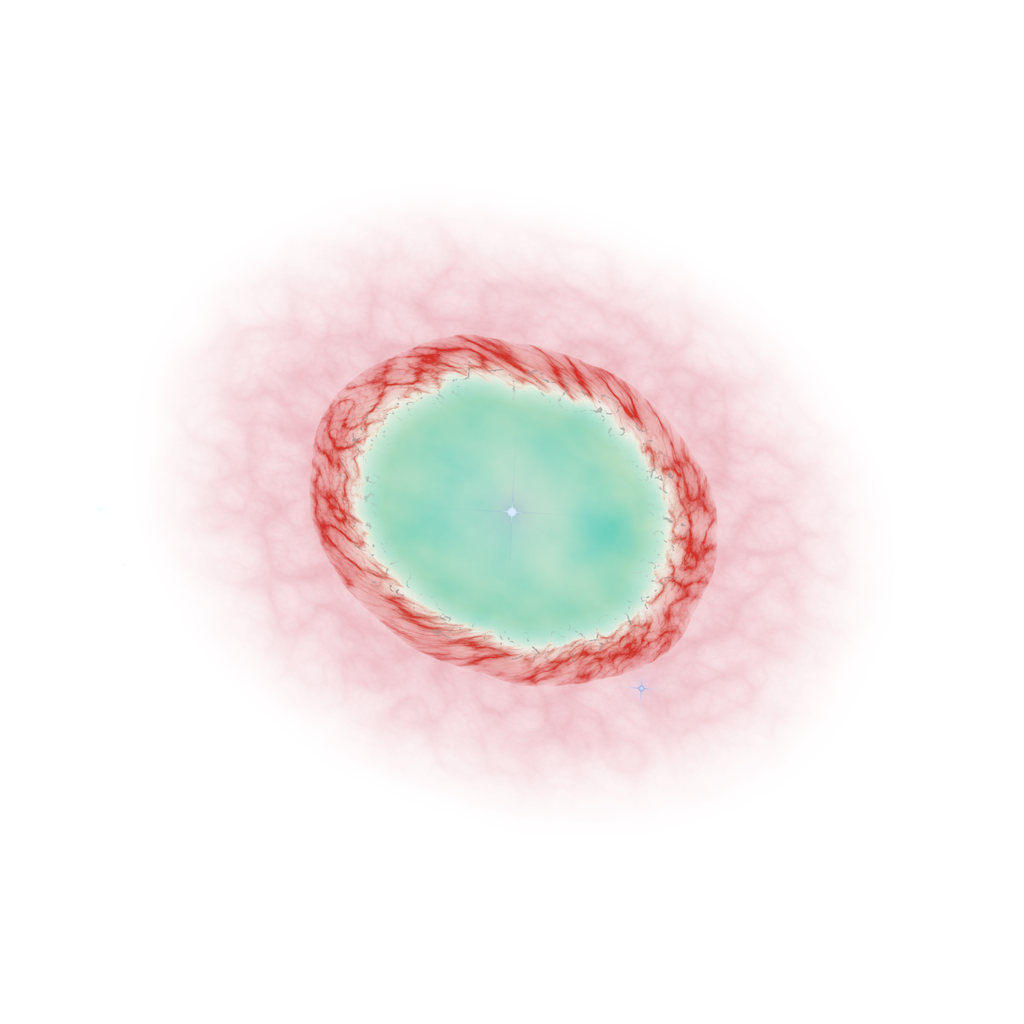
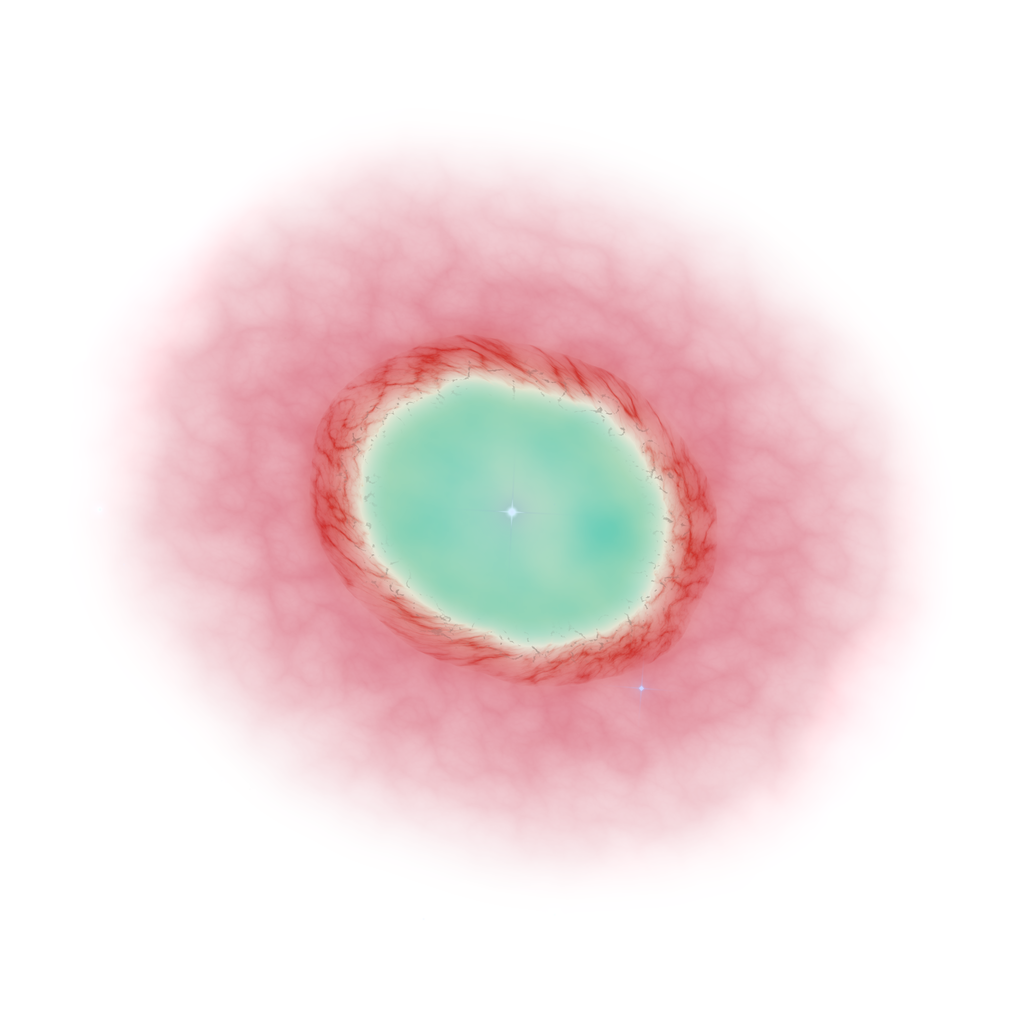
feat(cockpit-3d): favour the hazy arrivals, and a hazier ring nebula
- The emission and reflection nebulae and the spiral galaxy come up twice as often as
  the rest (WEIGHT in sky_arrivals.py, an item each time).
- The ring nebula's shell light is spread wide and its halo is broader, so its rim
  melts into the sky instead of drawing a hard line; only ring_nebula.png is re-rendered.
- jstream-demos.json rebaked (schema 22).

Claude-Session: https://claude.ai/code/session_01FGswf5twb1Vqu85TQjLhd6

diff --git a/cockpit-3d/daw/arrivals/src/nebulae.py b/cockpit-3d/daw/arrivals/src/nebulae.py
@@ -226,7 +226,7 @@ def ring_nebula(w, h, seed=24):
     knots = ridged(n, np.cos(ang) * 6 + r * 30, np.sin(ang) * 6, r * 12, 5)
     oiii = smooth(R * 0.95, R * 0.3, r) * (0.25 + 1.1 * fbm(n, u * 6, v * 6, 2.2, 7) ** 2) * (0.3 + 0.9 * smooth(0, R * 0.85, r))
     red = shell * (0.15 + 1.6 * knots ** 3) * smooth(R * 0.7, R * 0.92, r) * (0.6 + 0.6 * fil)
-    halo = smooth(R * 1.9, R * 1.0, r) * smooth(R * 0.8, R * 1.05, r) * (0.3 + 0.7 * fil) * 0.22
+    halo = smooth(R * 2.3, R * 1.0, r) * smooth(R * 0.8, R * 1.05, r) * (0.3 + 0.7 * fil) * 0.4
     light = (oiii[..., None] * np.array([0.25, 0.85, 0.85]) * 0.9
              + (shell * 0.35)[..., None] * np.array([0.9, 0.9, 0.6]) * smooth(R * 0.9, R * 0.5, r)[..., None]
              + red[..., None] * np.array([1.0, 0.25, 0.2]) * 1.8
@@ -235,6 +235,9 @@ def ring_nebula(w, h, seed=24):
     glob = smooth(0.72, 0.85, ridged(n, u * 26, v * 26, 4.4, 3)) * smooth(R * 0.6, R * 0.8, r) * smooth(R * 0.95, R * 0.8, r)
     dust = np.clip(glob * 0.7, 0, 0.8)
     light = light * (1 - dust[..., None])
+    # Hazy rather than crisp: the shell's light spread wide, so its rim melts into the
+    # halo and the sky instead of drawing a hard line.
+    light = light * 0.5 + blur(light, w / 70) * 0.75
     light = light + _one_star(w, h, w / 2, h / 2, 1.2, (0.85, 0.9, 1.0))
     light = light + _stars(w, h, seed + 1, 40, bright=0.5, spikes=1)
     return _finish(light, dust * 0.5, w, exposure=1.5, sat=1.1, edge=_edge(x, y, 0.98, 0.98, 0.3))

diff --git a/cockpit-3d/daw/sky_arrivals.py b/cockpit-3d/daw/sky_arrivals.py
@@ -42,6 +42,10 @@ SIZE = {
     "moon_grey": 16,
     "lava_world": 15,
 }
+# How often each comes up: the big hazy ones, which blend into the sky, twice as often as
+# the rest, by an item each time (any not named once). A picture can then follow itself
+# now and then, as another item of the same source.
+WEIGHT = {"emission_nebula": 2, "spiral_galaxy": 2, "blue_nebula": 2}
 SUN_DEG = 8  # the sun picture's width; its disc is about a tenth of it
 NAMES = {
     "emission_nebula": "Emission nebula", "spiral_galaxy": "Spiral galaxy",
@@ -88,7 +92,8 @@ def edits(suns=False):
         sid = f"arr_{name}"
         out.append(_image(sid, NAMES[name], path))
         if not (suns and name in sun_of):
-            out.append(_item(SCENE, sid, sid, deg, h / w))
+            for k in range(WEIGHT.get(name, 1)):
+                out.append(_item(SCENE, sid if k == 0 else f"{sid}_{k + 1}", sid, deg, h / w))
             continue
         s = sun_of[name]
         star = f"arr_{s['sun']}"

diff --git a/cockpit-3d/daw/README.md b/cockpit-3d/daw/README.md
@@ -260,6 +260,11 @@ the `warp` channel, so it never sits above its own setting, and before JStream's
 unpicked until the warp reached rest, where it popped in, and a warp aimed ahead dropped
 the last one within half a second of starting. With ADR-0224 both fade with the deep sky.
 
+The big hazy ones (the emission and reflection nebulae and the spiral galaxy), which
+melt into the sky, come up twice as often as the rest (`WEIGHT` in `sky_arrivals.py`,
+an item each time), so now and then one follows itself. The ring nebula is rendered
+hazy too: its shell's light is spread wide, so its rim melts into a broad halo.
+
 Each is sized for what it is (`SIZE` in `sky_arrivals.py`, its width across the sky):
 
 | Picture | Width |
